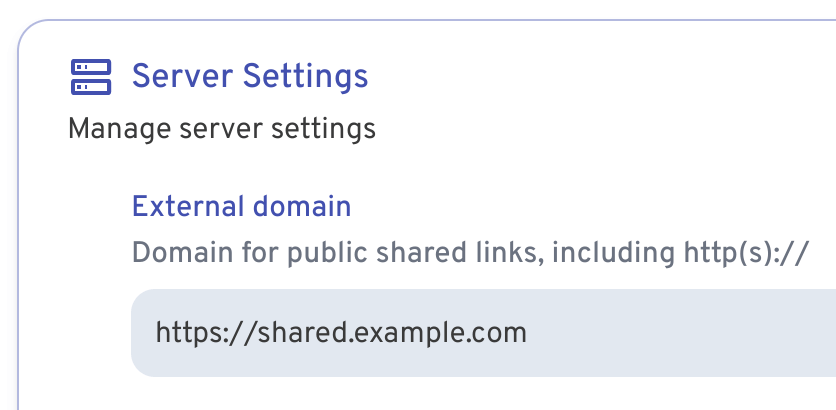
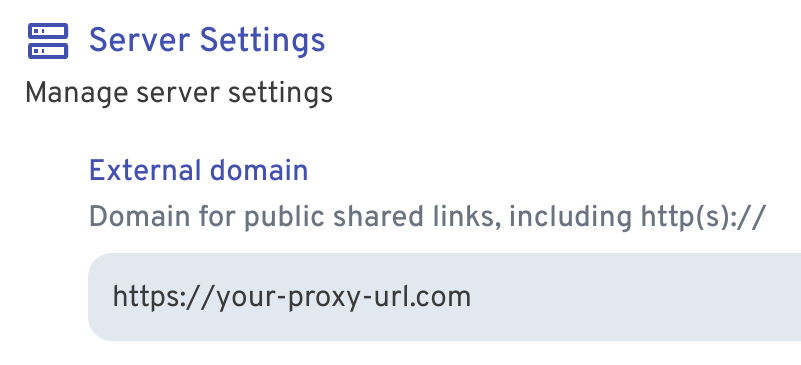
Update docs

Changed region(s): [[0.0, 0.0301, 1.0, 0.3616], [0.0936, 0.4219, 0.9675, 0.663], [0.0936, 0.6932, 1.0, 0.9342]]

diff --git a/README.md b/README.md
@@ -46,7 +46,7 @@ docker-compose up -d
 
 4. Set the "External domain" in your Immich **Server Settings** to be the same as the public URL for your Immich Public Proxy:
 
-<img src="public/images/server-settings.png" width="418" height="205">
+<img src="public/images/server-settings.png" width="400" height="182">
 
 Now whenever you share an image or gallery through Immich, it will automatically create the
 correct public path for you.
